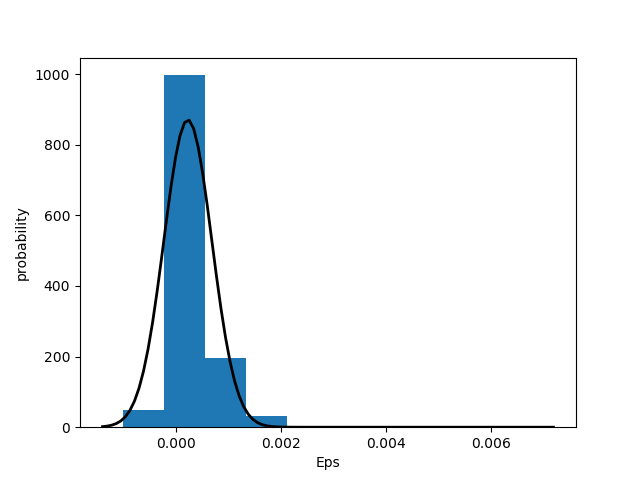
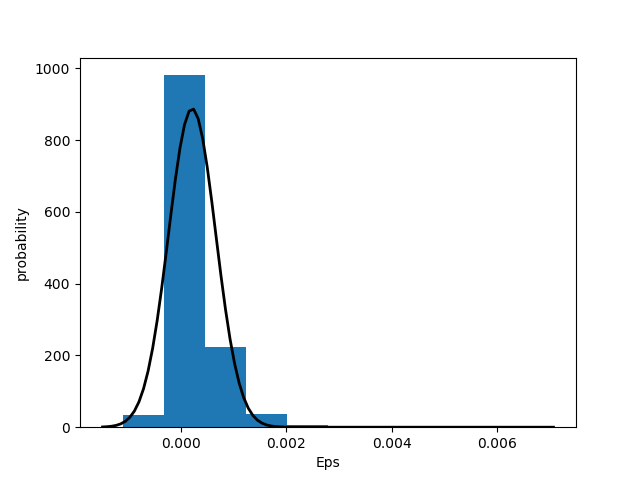
Remove some small bugs

diff --git a/run_pairwise.py b/run_pairwise.py
@@ -23,7 +23,7 @@ M_samples = 40000
 # Number of cores for multiprocess.
 n_jobs = 2
 entropy = fit_pairwise(train,J0,learning_rate,M_samples,n_jobs,test=test,save_loss=True)
-iter = 10;
+iter = 100;
 #Recommended to have twice as many as neuronss.
 gibbs_steps = 2*n
 
@@ -32,7 +32,6 @@ verbose = str(gibbs_steps)+"_"+str(iter)+"_"+str(M_samples)+"_"+str(learning_rat
 start_time = time.time()
 J, emp_cov ,mod_cov,samples,train_error, test_error = entropy.fit_pairwise(iter,gibbs_steps);
 print("--- %s seconds ---" % (time.time() - start_time))
-
 train_error.pop(0)
 test_error.pop(0)
 iteration = range(0,np.size(train_error))
@@ -49,8 +48,6 @@ comparison(emp_cov.flatten(), mod_cov.flatten(),verbose,correlation=True)
 ins = np.tril_indices(n,k=-1)
 under_emp = emp_cov[ins]
 under_mod = mod_cov[ins]
-under_emp = np.tril(emp_cov, -1)
-under_mod = np.tril(mod_cov, -1)
 eps = under_emp.flatten() - under_mod.flatten()
 CHI2(eps,verbose)
 correlation_graph_J(J,verbose)

diff --git a/data_preperation.py b/data_preperation.py
@@ -1,9 +1,7 @@
 import numpy as np
 import matplotlib as mpl
 mpl.use('Agg')
-#from coniii import *
 import matplotlib.pyplot as plt
-import matplotlib.patches as mpatches
 from numpy import genfromtxt
 
 def data_for_likelihood(nr_simp,seed):
@@ -220,6 +218,9 @@ def save_data_and_print(h, J, test, train, train_error, test_error,
 
 def learning_curve(iteration, train_error, test_error=None, total=False):
     #I = np.arange(1, np.size(iteration)+1)
+    import matplotlib as mpl
+    mpl.use('Agg')
+    import matplotlib.pyplot as plt
     I = iteration
     fig = plt.figure()
     ax = fig.add_subplot(111)

diff --git a/fit_pairwise.py b/fit_pairwise.py
@@ -218,12 +218,12 @@ class fit_pairwise(object):
         Dloss_train = (-self.model_cov + self.emp_cov_train.flatten())
 
         if self.save_loss:
-            self.train_error.append(max(abs(Dloss_train)))
+            self.train_error.append(np.max(abs(Dloss_train)))
 
         if self.emp_cov_test is not None:
             Dloss_test = (-self.model_cov + self.emp_cov_test.flatten())
             if self.save_loss:
-                self.test_error.append(max(abs(Dloss_test)))
+                self.test_error.append(np.max(abs(Dloss_test)))
 
         return Dloss_train
 

diff --git a/load_data.py b/load_data.py
@@ -2,7 +2,6 @@
 #from monte_carlo import *
 import numpy  as np
 import scipy.io as sio
-import matplotlib.pyplot as pp
 import os
 
 def get_mat_data():
